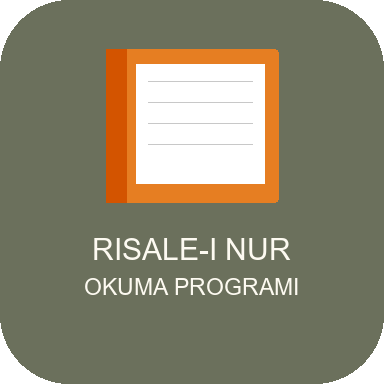
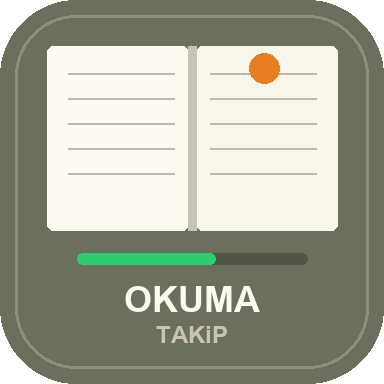
Yeni uygulama ikonu: Acik kitap + ilerleme cubugu + OKUMA TAKIP yazisi
- Kulliyat temali acik kitap tasarimi
- Sayfa satirlari ve turuncu hilal detayi
- Yesil ilerleme cubugu (okuma ilerlemesi)
- OKUMA TAKIP yazisi altta

diff --git a/sw.js b/sw.js
@@ -1,4 +1,4 @@
-const CACHE_NAME = 'risale-okuma-v19';
+const CACHE_NAME = 'risale-okuma-v20';
 const ASSETS = [
   './',
   './index.html',
